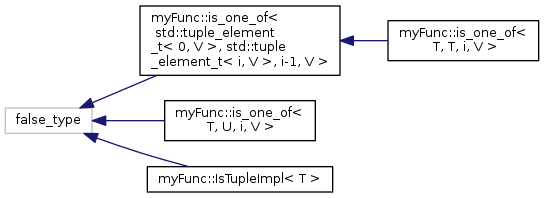
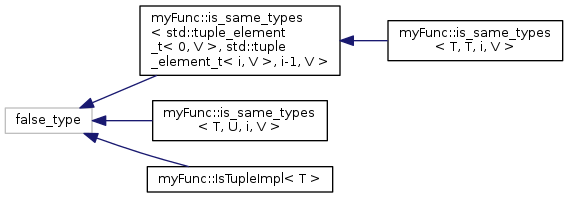
Deploy alexhamster/homework_4 to github.com/alexhamster/homework_4.git:gh-pages

Changed region(s): [[0.2188, 0.0, 1.0, 0.4545], [0.0312, 0.4545, 0.625, 1.0], [0.25, 0.4848, 0.5938, 0.7273]]

diff --git a/hierarchy.html b/hierarchy.html
@@ -93,16 +93,16 @@ This inheritance list is sorted roughly, but not completely, alphabetically:</di
 <div class="levels">[detail level <span onclick="javascript:toggleLevel(1);">1</span><span onclick="javascript:toggleLevel(2);">2</span><span onclick="javascript:toggleLevel(3);">3</span>]</div><table class="directory">
 <tr id="row_0_" class="even"><td class="entry"><span style="width:16px;display:inline-block;">&#160;</span><span class="icona"><span class="icon">C</span></span><a class="el" href="unionbyteview.html" target="_self">byteview&lt; T &gt;</a></td><td class="desc"></td></tr>
 <tr id="row_1_"><td class="entry"><span style="width:0px;display:inline-block;">&#160;</span><span id="arr_1_" class="arrow" onclick="toggleFolder('1_')">&#9660;</span><span class="icona"><span class="icon">C</span></span><b>false_type</b></td><td class="desc"></td></tr>
-<tr id="row_1_0_" class="even"><td class="entry"><span style="width:16px;display:inline-block;">&#160;</span><span id="arr_1_0_" class="arrow" onclick="toggleFolder('1_0_')">&#9660;</span><span class="icona"><span class="icon">C</span></span><a class="el" href="structmyFunc_1_1is__one__of.html" target="_self">myFunc::is_one_of&lt; std::tuple_element_t&lt; 0, V &gt;, std::tuple_element_t&lt; i, V &gt;, i-1, V &gt;</a></td><td class="desc"></td></tr>
-<tr id="row_1_0_0_"><td class="entry"><span style="width:48px;display:inline-block;">&#160;</span><span class="icona"><span class="icon">C</span></span><a class="el" href="structmyFunc_1_1is__one__of_3_01T_00_01T_00_01i_00_01V_01_4.html" target="_self">myFunc::is_one_of&lt; T, T, i, V &gt;</a></td><td class="desc"></td></tr>
-<tr id="row_1_1_" class="even"><td class="entry"><span style="width:32px;display:inline-block;">&#160;</span><span class="icona"><span class="icon">C</span></span><a class="el" href="structmyFunc_1_1is__one__of.html" target="_self">myFunc::is_one_of&lt; T, U, i, V &gt;</a></td><td class="desc"></td></tr>
+<tr id="row_1_0_" class="even"><td class="entry"><span style="width:16px;display:inline-block;">&#160;</span><span id="arr_1_0_" class="arrow" onclick="toggleFolder('1_0_')">&#9660;</span><span class="icona"><span class="icon">C</span></span><a class="el" href="structmyFunc_1_1is__same__types.html" target="_self">myFunc::is_same_types&lt; std::tuple_element_t&lt; 0, V &gt;, std::tuple_element_t&lt; i, V &gt;, i-1, V &gt;</a></td><td class="desc"></td></tr>
+<tr id="row_1_0_0_"><td class="entry"><span style="width:48px;display:inline-block;">&#160;</span><span class="icona"><span class="icon">C</span></span><a class="el" href="structmyFunc_1_1is__same__types_3_01T_00_01T_00_01i_00_01V_01_4.html" target="_self">myFunc::is_same_types&lt; T, T, i, V &gt;</a></td><td class="desc"></td></tr>
+<tr id="row_1_1_" class="even"><td class="entry"><span style="width:32px;display:inline-block;">&#160;</span><span class="icona"><span class="icon">C</span></span><a class="el" href="structmyFunc_1_1is__same__types.html" target="_self">myFunc::is_same_types&lt; T, U, i, V &gt;</a></td><td class="desc"></td></tr>
 <tr id="row_1_2_"><td class="entry"><span style="width:32px;display:inline-block;">&#160;</span><span class="icona"><span class="icon">C</span></span><a class="el" href="structmyFunc_1_1IsTupleImpl.html" target="_self">myFunc::IsTupleImpl&lt; T &gt;</a></td><td class="desc"></td></tr>
 <tr id="row_2_" class="even"><td class="entry"><span style="width:16px;display:inline-block;">&#160;</span><span class="icona"><span class="icon">C</span></span><a class="el" href="structprint.html" target="_self">print&lt; T, is_integral, is_object, is_tuple &gt;</a></td><td class="desc"></td></tr>
 <tr id="row_3_"><td class="entry"><span style="width:16px;display:inline-block;">&#160;</span><span class="icona"><span class="icon">C</span></span><a class="el" href="structprint_3_01T_00_01false_00_01true_00_01false_01_4.html" target="_self">print&lt; T, false, true, false &gt;</a></td><td class="desc"></td></tr>
 <tr id="row_4_" class="even"><td class="entry"><span style="width:16px;display:inline-block;">&#160;</span><span class="icona"><span class="icon">C</span></span><a class="el" href="structprint_3_01T_00_01false_00_01true_00_01true_01_4.html" target="_self">print&lt; T, false, true, true &gt;</a></td><td class="desc"></td></tr>
 <tr id="row_5_"><td class="entry"><span style="width:16px;display:inline-block;">&#160;</span><span class="icona"><span class="icon">C</span></span><a class="el" href="structprint_3_01T_00_01true_00_01false_00_01false_01_4.html" target="_self">print&lt; T, true, false, false &gt;</a></td><td class="desc"></td></tr>
 <tr id="row_6_" class="even"><td class="entry"><span style="width:0px;display:inline-block;">&#160;</span><span id="arr_6_" class="arrow" onclick="toggleFolder('6_')">&#9660;</span><span class="icona"><span class="icon">C</span></span><b>true_type</b></td><td class="desc"></td></tr>
-<tr id="row_6_0_"><td class="entry"><span style="width:32px;display:inline-block;">&#160;</span><span class="icona"><span class="icon">C</span></span><a class="el" href="structmyFunc_1_1is__one__of_3_01T_00_01T_00_011_00_01V_01_4.html" target="_self">myFunc::is_one_of&lt; T, T, 1, V &gt;</a></td><td class="desc"></td></tr>
+<tr id="row_6_0_"><td class="entry"><span style="width:32px;display:inline-block;">&#160;</span><span class="icona"><span class="icon">C</span></span><a class="el" href="structmyFunc_1_1is__same__types_3_01T_00_01T_00_011_00_01V_01_4.html" target="_self">myFunc::is_same_types&lt; T, T, 1, V &gt;</a></td><td class="desc"></td></tr>
 <tr id="row_6_1_" class="even"><td class="entry"><span style="width:32px;display:inline-block;">&#160;</span><span class="icona"><span class="icon">C</span></span><a class="el" href="structmyFunc_1_1IsTupleImpl_3_01std_1_1tuple_3_01U_8_8_8_01_4_01_4.html" target="_self">myFunc::IsTupleImpl&lt; std::tuple&lt; U... &gt; &gt;</a></td><td class="desc"></td></tr>
 <tr id="row_7_"><td class="entry"><span style="width:16px;display:inline-block;">&#160;</span><span class="icona"><span class="icon">C</span></span><a class="el" href="structmyFunc_1_1TuplePrinter.html" target="_self">myFunc::TuplePrinter&lt; Tuple, N &gt;</a></td><td class="desc"></td></tr>
 <tr id="row_8_" class="even"><td class="entry"><span style="width:16px;display:inline-block;">&#160;</span><span class="icona"><span class="icon">C</span></span><a class="el" href="structmyFunc_1_1TuplePrinter_3_01Tuple_00_011_01_4.html" target="_self">myFunc::TuplePrinter&lt; Tuple, 1 &gt;</a></td><td class="desc"></td></tr>

diff --git a/namespacemyFunc.html b/namespacemyFunc.html
@@ -92,11 +92,11 @@ var searchBox = new SearchBox("searchBox", "search",false,'Search');
 <table class="memberdecls">
 <tr class="heading"><td colspan="2"><h2 class="groupheader"><a name="nested-classes"></a>
 Classes</h2></td></tr>
-<tr class="memitem:"><td class="memItemLeft" align="right" valign="top">struct &#160;</td><td class="memItemRight" valign="bottom"><a class="el" href="structmyFunc_1_1is__one__of.html">is_one_of</a></td></tr>
+<tr class="memitem:"><td class="memItemLeft" align="right" valign="top">struct &#160;</td><td class="memItemRight" valign="bottom"><a class="el" href="structmyFunc_1_1is__same__types.html">is_same_types</a></td></tr>
 <tr class="separator:"><td class="memSeparator" colspan="2">&#160;</td></tr>
-<tr class="memitem:"><td class="memItemLeft" align="right" valign="top">struct &#160;</td><td class="memItemRight" valign="bottom"><a class="el" href="structmyFunc_1_1is__one__of_3_01T_00_01T_00_011_00_01V_01_4.html">is_one_of&lt; T, T, 1, V &gt;</a></td></tr>
+<tr class="memitem:"><td class="memItemLeft" align="right" valign="top">struct &#160;</td><td class="memItemRight" valign="bottom"><a class="el" href="structmyFunc_1_1is__same__types_3_01T_00_01T_00_011_00_01V_01_4.html">is_same_types&lt; T, T, 1, V &gt;</a></td></tr>
 <tr class="separator:"><td class="memSeparator" colspan="2">&#160;</td></tr>
-<tr class="memitem:"><td class="memItemLeft" align="right" valign="top">struct &#160;</td><td class="memItemRight" valign="bottom"><a class="el" href="structmyFunc_1_1is__one__of_3_01T_00_01T_00_01i_00_01V_01_4.html">is_one_of&lt; T, T, i, V &gt;</a></td></tr>
+<tr class="memitem:"><td class="memItemLeft" align="right" valign="top">struct &#160;</td><td class="memItemRight" valign="bottom"><a class="el" href="structmyFunc_1_1is__same__types_3_01T_00_01T_00_01i_00_01V_01_4.html">is_same_types&lt; T, T, i, V &gt;</a></td></tr>
 <tr class="separator:"><td class="memSeparator" colspan="2">&#160;</td></tr>
 <tr class="memitem:"><td class="memItemLeft" align="right" valign="top">struct &#160;</td><td class="memItemRight" valign="bottom"><a class="el" href="structmyFunc_1_1IsTupleImpl.html">IsTupleImpl</a></td></tr>
 <tr class="separator:"><td class="memSeparator" colspan="2">&#160;</td></tr>
@@ -124,9 +124,9 @@ Functions</h2></td></tr>
 </table><table class="memberdecls">
 <tr class="heading"><td colspan="2"><h2 class="groupheader"><a name="var-members"></a>
 Variables</h2></td></tr>
-<tr class="memitem:aa757a804546f113b7cadf75b0a1ec7e1"><td class="memTemplParams" colspan="2">template&lt;typename T , typename U , size_t i, typename V &gt; </td></tr>
-<tr class="memitem:aa757a804546f113b7cadf75b0a1ec7e1"><td class="memTemplItemLeft" align="right" valign="top">constexpr bool&#160;</td><td class="memTemplItemRight" valign="bottom"><a class="el" href="namespacemyFunc.html#aa757a804546f113b7cadf75b0a1ec7e1">is_one_of_v</a> = <a class="el" href="structmyFunc_1_1is__one__of.html">is_one_of</a>&lt;T, U, i, V&gt;::value</td></tr>
-<tr class="separator:aa757a804546f113b7cadf75b0a1ec7e1"><td class="memSeparator" colspan="2">&#160;</td></tr>
+<tr class="memitem:a71e3910534c510ea0f7c99cc68edaf38"><td class="memTemplParams" colspan="2">template&lt;typename T , typename U , size_t i, typename V &gt; </td></tr>
+<tr class="memitem:a71e3910534c510ea0f7c99cc68edaf38"><td class="memTemplItemLeft" align="right" valign="top">constexpr bool&#160;</td><td class="memTemplItemRight" valign="bottom"><a class="el" href="namespacemyFunc.html#a71e3910534c510ea0f7c99cc68edaf38">is_same_types_v</a> = <a class="el" href="structmyFunc_1_1is__same__types.html">is_same_types</a>&lt;T, U, i, V&gt;::value</td></tr>
+<tr class="separator:a71e3910534c510ea0f7c99cc68edaf38"><td class="memSeparator" colspan="2">&#160;</td></tr>
 </table>
 <h2 class="groupheader">Function Documentation</h2>
 <a class="anchor" id="a2880ec2f77273fe6723e3a9bf280f8f4"></a>
@@ -222,14 +222,14 @@ Here is the caller graph for this function:</div>
 </div>
 </div>
 <h2 class="groupheader">Variable Documentation</h2>
-<a class="anchor" id="aa757a804546f113b7cadf75b0a1ec7e1"></a>
+<a class="anchor" id="a71e3910534c510ea0f7c99cc68edaf38"></a>
 <div class="memitem">
 <div class="memproto">
 <div class="memtemplate">
 template&lt;typename T , typename U , size_t i, typename V &gt; </div>
       <table class="memname">
         <tr>
-          <td class="memname">constexpr bool myFunc::is_one_of_v = <a class="el" href="structmyFunc_1_1is__one__of.html">is_one_of</a>&lt;T, U, i, V&gt;::value</td>
+          <td class="memname">constexpr bool myFunc::is_same_types_v = <a class="el" href="structmyFunc_1_1is__same__types.html">is_same_types</a>&lt;T, U, i, V&gt;::value</td>
         </tr>
       </table>
 </div><div class="memdoc">

diff --git a/print__ip_8cpp.html b/print__ip_8cpp.html
@@ -117,11 +117,11 @@ Classes</h2></td></tr>
 <tr class="separator:"><td class="memSeparator" colspan="2">&#160;</td></tr>
 <tr class="memitem:"><td class="memItemLeft" align="right" valign="top">struct &#160;</td><td class="memItemRight" valign="bottom"><a class="el" href="structmyFunc_1_1IsTupleImpl_3_01std_1_1tuple_3_01U_8_8_8_01_4_01_4.html">myFunc::IsTupleImpl&lt; std::tuple&lt; U... &gt; &gt;</a></td></tr>
 <tr class="separator:"><td class="memSeparator" colspan="2">&#160;</td></tr>
-<tr class="memitem:"><td class="memItemLeft" align="right" valign="top">struct &#160;</td><td class="memItemRight" valign="bottom"><a class="el" href="structmyFunc_1_1is__one__of.html">myFunc::is_one_of&lt; T, U, i, V &gt;</a></td></tr>
+<tr class="memitem:"><td class="memItemLeft" align="right" valign="top">struct &#160;</td><td class="memItemRight" valign="bottom"><a class="el" href="structmyFunc_1_1is__same__types.html">myFunc::is_same_types&lt; T, U, i, V &gt;</a></td></tr>
 <tr class="separator:"><td class="memSeparator" colspan="2">&#160;</td></tr>
-<tr class="memitem:"><td class="memItemLeft" align="right" valign="top">struct &#160;</td><td class="memItemRight" valign="bottom"><a class="el" href="structmyFunc_1_1is__one__of_3_01T_00_01T_00_011_00_01V_01_4.html">myFunc::is_one_of&lt; T, T, 1, V &gt;</a></td></tr>
+<tr class="memitem:"><td class="memItemLeft" align="right" valign="top">struct &#160;</td><td class="memItemRight" valign="bottom"><a class="el" href="structmyFunc_1_1is__same__types_3_01T_00_01T_00_011_00_01V_01_4.html">myFunc::is_same_types&lt; T, T, 1, V &gt;</a></td></tr>
 <tr class="separator:"><td class="memSeparator" colspan="2">&#160;</td></tr>
-<tr class="memitem:"><td class="memItemLeft" align="right" valign="top">struct &#160;</td><td class="memItemRight" valign="bottom"><a class="el" href="structmyFunc_1_1is__one__of_3_01T_00_01T_00_01i_00_01V_01_4.html">myFunc::is_one_of&lt; T, T, i, V &gt;</a></td></tr>
+<tr class="memitem:"><td class="memItemLeft" align="right" valign="top">struct &#160;</td><td class="memItemRight" valign="bottom"><a class="el" href="structmyFunc_1_1is__same__types_3_01T_00_01T_00_01i_00_01V_01_4.html">myFunc::is_same_types&lt; T, T, i, V &gt;</a></td></tr>
 <tr class="separator:"><td class="memSeparator" colspan="2">&#160;</td></tr>
 <tr class="memitem:"><td class="memItemLeft" align="right" valign="top">struct &#160;</td><td class="memItemRight" valign="bottom"><a class="el" href="structmyFunc_1_1TuplePrinter.html">myFunc::TuplePrinter&lt; Tuple, N &gt;</a></td></tr>
 <tr class="separator:"><td class="memSeparator" colspan="2">&#160;</td></tr>
@@ -171,9 +171,9 @@ Variables</h2></td></tr>
 <tr class="memitem:ae1e905cdb2694181466fae8f8dd8f8e8"><td class="memTemplParams" colspan="2">template&lt;typename T &gt; </td></tr>
 <tr class="memitem:ae1e905cdb2694181466fae8f8dd8f8e8"><td class="memTemplItemLeft" align="right" valign="top">constexpr bool&#160;</td><td class="memTemplItemRight" valign="bottom"><a class="el" href="namespacestd.html#ae1e905cdb2694181466fae8f8dd8f8e8">std::is_compound_v</a> = is_compound&lt;T&gt;::value</td></tr>
 <tr class="separator:ae1e905cdb2694181466fae8f8dd8f8e8"><td class="memSeparator" colspan="2">&#160;</td></tr>
-<tr class="memitem:aa757a804546f113b7cadf75b0a1ec7e1"><td class="memTemplParams" colspan="2">template&lt;typename T , typename U , size_t i, typename V &gt; </td></tr>
-<tr class="memitem:aa757a804546f113b7cadf75b0a1ec7e1"><td class="memTemplItemLeft" align="right" valign="top">constexpr bool&#160;</td><td class="memTemplItemRight" valign="bottom"><a class="el" href="namespacemyFunc.html#aa757a804546f113b7cadf75b0a1ec7e1">myFunc::is_one_of_v</a> = is_one_of&lt;T, U, i, V&gt;::value</td></tr>
-<tr class="separator:aa757a804546f113b7cadf75b0a1ec7e1"><td class="memSeparator" colspan="2">&#160;</td></tr>
+<tr class="memitem:a71e3910534c510ea0f7c99cc68edaf38"><td class="memTemplParams" colspan="2">template&lt;typename T , typename U , size_t i, typename V &gt; </td></tr>
+<tr class="memitem:a71e3910534c510ea0f7c99cc68edaf38"><td class="memTemplItemLeft" align="right" valign="top">constexpr bool&#160;</td><td class="memTemplItemRight" valign="bottom"><a class="el" href="namespacemyFunc.html#a71e3910534c510ea0f7c99cc68edaf38">myFunc::is_same_types_v</a> = is_same_types&lt;T, U, i, V&gt;::value</td></tr>
+<tr class="separator:a71e3910534c510ea0f7c99cc68edaf38"><td class="memSeparator" colspan="2">&#160;</td></tr>
 </table>
 <h2 class="groupheader">Function Documentation</h2>
 <a class="anchor" id="adb9c8fb50d681b29329c3859d6a2e2db"></a>

diff --git a/classes.html b/classes.html
@@ -92,14 +92,14 @@ var searchBox = new SearchBox("searchBox", "search",false,'Search');
 <tr><td rowspan="2" valign="bottom"><a name="letter_I"></a><table border="0" cellspacing="0" cellpadding="0"><tr><td><div class="ah">&#160;&#160;I&#160;&#160;</div></td></tr></table>
 </td><td rowspan="2" valign="bottom"><a name="letter_T"></a><table border="0" cellspacing="0" cellpadding="0"><tr><td><div class="ah">&#160;&#160;T&#160;&#160;</div></td></tr></table>
 </td><td rowspan="2" valign="bottom"><a name="letter_b"></a><table border="0" cellspacing="0" cellpadding="0"><tr><td><div class="ah">&#160;&#160;b&#160;&#160;</div></td></tr></table>
-</td><td valign="top"><a class="el" href="structmyFunc_1_1is__one__of_3_01T_00_01T_00_011_00_01V_01_4.html">is_one_of&lt; T, T, 1, V &gt;</a> (<a class="el" href="namespacemyFunc.html">myFunc</a>)&#160;&#160;&#160;</td><td valign="top"><a class="el" href="structprint_3_01T_00_01false_00_01true_00_01false_01_4.html">print&lt; T, false, true, false &gt;</a>&#160;&#160;&#160;</td></tr>
-<tr><td valign="top"><a class="el" href="structmyFunc_1_1is__one__of_3_01T_00_01T_00_01i_00_01V_01_4.html">is_one_of&lt; T, T, i, V &gt;</a> (<a class="el" href="namespacemyFunc.html">myFunc</a>)&#160;&#160;&#160;</td><td valign="top"><a class="el" href="structprint_3_01T_00_01false_00_01true_00_01true_01_4.html">print&lt; T, false, true, true &gt;</a>&#160;&#160;&#160;</td></tr>
+</td><td valign="top"><a class="el" href="structmyFunc_1_1is__same__types_3_01T_00_01T_00_011_00_01V_01_4.html">is_same_types&lt; T, T, 1, V &gt;</a> (<a class="el" href="namespacemyFunc.html">myFunc</a>)&#160;&#160;&#160;</td><td valign="top"><a class="el" href="structprint_3_01T_00_01false_00_01true_00_01false_01_4.html">print&lt; T, false, true, false &gt;</a>&#160;&#160;&#160;</td></tr>
+<tr><td valign="top"><a class="el" href="structmyFunc_1_1is__same__types_3_01T_00_01T_00_01i_00_01V_01_4.html">is_same_types&lt; T, T, i, V &gt;</a> (<a class="el" href="namespacemyFunc.html">myFunc</a>)&#160;&#160;&#160;</td><td valign="top"><a class="el" href="structprint_3_01T_00_01false_00_01true_00_01true_01_4.html">print&lt; T, false, true, true &gt;</a>&#160;&#160;&#160;</td></tr>
 <tr><td valign="top"><a class="el" href="structmyFunc_1_1IsTupleImpl.html">IsTupleImpl</a> (<a class="el" href="namespacemyFunc.html">myFunc</a>)&#160;&#160;&#160;</td><td valign="top"><a class="el" href="structmyFunc_1_1TuplePrinter.html">TuplePrinter</a> (<a class="el" href="namespacemyFunc.html">myFunc</a>)&#160;&#160;&#160;</td><td valign="top"><a class="el" href="unionbyteview.html">byteview</a>&#160;&#160;&#160;</td><td rowspan="2" valign="bottom"><a name="letter_p"></a><table border="0" cellspacing="0" cellpadding="0"><tr><td><div class="ah">&#160;&#160;p&#160;&#160;</div></td></tr></table>
 </td><td valign="top"><a class="el" href="structprint_3_01T_00_01true_00_01false_00_01false_01_4.html">print&lt; T, true, false, false &gt;</a>&#160;&#160;&#160;</td></tr>
 <tr><td valign="top"><a class="el" href="structmyFunc_1_1IsTupleImpl_3_01std_1_1tuple_3_01U_8_8_8_01_4_01_4.html">IsTupleImpl&lt; std::tuple&lt; U... &gt; &gt;</a> (<a class="el" href="namespacemyFunc.html">myFunc</a>)&#160;&#160;&#160;</td><td valign="top"><a class="el" href="structmyFunc_1_1TuplePrinter_3_01Tuple_00_011_01_4.html">TuplePrinter&lt; Tuple, 1 &gt;</a> (<a class="el" href="namespacemyFunc.html">myFunc</a>)&#160;&#160;&#160;</td><td rowspan="2" valign="bottom"><a name="letter_i"></a><table border="0" cellspacing="0" cellpadding="0"><tr><td><div class="ah">&#160;&#160;i&#160;&#160;</div></td></tr></table>
 </td><td></td></tr>
 <tr><td></td><td></td><td valign="top"><a class="el" href="structprint.html">print</a>&#160;&#160;&#160;</td><td></td></tr>
-<tr><td></td><td></td><td valign="top"><a class="el" href="structmyFunc_1_1is__one__of.html">is_one_of</a> (<a class="el" href="namespacemyFunc.html">myFunc</a>)&#160;&#160;&#160;</td><td></td><td></td></tr>
+<tr><td></td><td></td><td valign="top"><a class="el" href="structmyFunc_1_1is__same__types.html">is_same_types</a> (<a class="el" href="namespacemyFunc.html">myFunc</a>)&#160;&#160;&#160;</td><td></td><td></td></tr>
 <tr><td></td><td></td><td></td><td></td><td></td></tr>
 </table>
 <div class="qindex"><a class="qindex" href="#letter_B">B</a>&#160;|&#160;<a class="qindex" href="#letter_I">I</a>&#160;|&#160;<a class="qindex" href="#letter_P">P</a>&#160;|&#160;<a class="qindex" href="#letter_T">T</a></div>

diff --git a/inherits.html b/inherits.html
@@ -95,18 +95,18 @@ var searchBox = new SearchBox("searchBox", "search",false,'Search');
 <area shape="rect" id="node1" href="unionbyteview.html" title="byteview\&lt; T \&gt;" alt="" coords="5,5,120,32"/>
 </map>
 </td></tr>
-<tr><td><img src="inherit_graph_1.png" border="0" alt="" usemap="#myFunc_1_1is__one__of_3_01std_1_1tuple__element__t_3_010_00_01V_01_4_00_01std_1_1tuple__element__t_3_01i_00_01V_01_4_00_01i-1_00_01V_01_4"/>
-<map name="myFunc_1_1is__one__of_3_01std_1_1tuple__element__t_3_010_00_01V_01_4_00_01std_1_1tuple__element__t_3_01i_00_01V_01_4_00_01i-1_00_01V_01_4" id="myFunc_1_1is__one__of_3_01std_1_1tuple__element__t_3_010_00_01V_01_4_00_01std_1_1tuple__element__t_3_01i_00_01V_01_4_00_01i-1_00_01V_01_4">
-<area shape="rect" id="node2" href="structmyFunc_1_1is__one__of.html" title="myFunc::is_one_of\&lt;\l std::tuple_element\l_t\&lt; 0, V \&gt;, std::tuple\l_element_t\&lt; i, V \&gt;, i&#45;1, V \&gt;" alt="" coords="140,5,340,76"/>
-<area shape="rect" id="node4" href="structmyFunc_1_1is__one__of.html" title="myFunc::is_one_of\&lt;\l T, U, i, V \&gt;" alt="" coords="165,100,315,141"/>
+<tr><td><img src="inherit_graph_1.png" border="0" alt="" usemap="#myFunc_1_1is__same__types_3_01std_1_1tuple__element__t_3_010_00_01V_01_4_00_01std_1_1tuple__element__t_3_01i_00_01V_01_4_00_01i-1_00_01V_01_4"/>
+<map name="myFunc_1_1is__same__types_3_01std_1_1tuple__element__t_3_010_00_01V_01_4_00_01std_1_1tuple__element__t_3_01i_00_01V_01_4_00_01i-1_00_01V_01_4" id="myFunc_1_1is__same__types_3_01std_1_1tuple__element__t_3_010_00_01V_01_4_00_01std_1_1tuple__element__t_3_01i_00_01V_01_4_00_01i-1_00_01V_01_4">
+<area shape="rect" id="node2" href="structmyFunc_1_1is__same__types.html" title="myFunc::is_same_types\l\&lt; std::tuple_element\l_t\&lt; 0, V \&gt;, std::tuple\l_element_t\&lt; i, V \&gt;, i&#45;1, V \&gt;" alt="" coords="140,5,340,76"/>
+<area shape="rect" id="node4" href="structmyFunc_1_1is__same__types.html" title="myFunc::is_same_types\l\&lt; T, U, i, V \&gt;" alt="" coords="153,100,327,141"/>
 <area shape="rect" id="node5" href="structmyFunc_1_1IsTupleImpl.html" title="myFunc::IsTupleImpl\&lt; T \&gt;" alt="" coords="147,166,333,193"/>
-<area shape="rect" id="node3" href="structmyFunc_1_1is__one__of_3_01T_00_01T_00_01i_00_01V_01_4.html" title="myFunc::is_one_of\&lt;\l T, T, i, V \&gt;" alt="" coords="388,20,539,61"/>
+<area shape="rect" id="node3" href="structmyFunc_1_1is__same__types_3_01T_00_01T_00_01i_00_01V_01_4.html" title="myFunc::is_same_types\l\&lt; T, T, i, V \&gt;" alt="" coords="388,20,563,61"/>
 </map>
 </td></tr>
-<tr><td><img src="inherit_graph_2.png" border="0" alt="" usemap="#myFunc_1_1is__one__of_3_01T_00_01T_00_011_00_01V_01_4"/>
-<map name="myFunc_1_1is__one__of_3_01T_00_01T_00_011_00_01V_01_4" id="myFunc_1_1is__one__of_3_01T_00_01T_00_011_00_01V_01_4">
-<area shape="rect" id="node2" href="structmyFunc_1_1is__one__of_3_01T_00_01T_00_011_00_01V_01_4.html" title="myFunc::is_one_of\&lt;\l T, T, 1, V \&gt;" alt="" coords="143,5,293,47"/>
-<area shape="rect" id="node3" href="structmyFunc_1_1IsTupleImpl_3_01std_1_1tuple_3_01U_8_8_8_01_4_01_4.html" title="myFunc::IsTupleImpl\l\&lt; std::tuple\&lt; U... \&gt; \&gt;" alt="" coords="136,71,300,112"/>
+<tr><td><img src="inherit_graph_2.png" border="0" alt="" usemap="#myFunc_1_1is__same__types_3_01T_00_01T_00_011_00_01V_01_4"/>
+<map name="myFunc_1_1is__same__types_3_01T_00_01T_00_011_00_01V_01_4" id="myFunc_1_1is__same__types_3_01T_00_01T_00_011_00_01V_01_4">
+<area shape="rect" id="node2" href="structmyFunc_1_1is__same__types_3_01T_00_01T_00_011_00_01V_01_4.html" title="myFunc::is_same_types\l\&lt; T, T, 1, V \&gt;" alt="" coords="136,5,311,47"/>
+<area shape="rect" id="node3" href="structmyFunc_1_1IsTupleImpl_3_01std_1_1tuple_3_01U_8_8_8_01_4_01_4.html" title="myFunc::IsTupleImpl\l\&lt; std::tuple\&lt; U... \&gt; \&gt;" alt="" coords="141,71,305,112"/>
 </map>
 </td></tr>
 <tr><td><img src="inherit_graph_3.png" border="0" alt="" usemap="#myFunc_1_1TuplePrinter_3_01Tuple_00_011_01_4"/>

diff --git a/structmyFunc_1_1is__same__types_3_01T_00_01T_00_01i_00_01V_01_4.html b/structmyFunc_1_1is__same__types_3_01T_00_01T_00_01i_00_01V_01_4.html
@@ -4,7 +4,7 @@
 <meta http-equiv="Content-Type" content="text/xhtml;charset=UTF-8"/>
 <meta http-equiv="X-UA-Compatible" content="IE=9"/>
 <meta name="generator" content="Doxygen 1.8.11"/>
-<title>print_ip: myFunc::is_one_of&lt; T, U, i, V &gt; Struct Template Reference</title>
+<title>print_ip: myFunc::is_same_types&lt; T, T, i, V &gt; Struct Template Reference</title>
 <link href="tabs.css" rel="stylesheet" type="text/css"/>
 <script type="text/javascript" src="jquery.js"></script>
 <script type="text/javascript" src="dynsections.js"></script>
@@ -83,26 +83,28 @@ var searchBox = new SearchBox("searchBox", "search",false,'Search');
 
 <div id="nav-path" class="navpath">
   <ul>
-<li class="navelem"><a class="el" href="namespacemyFunc.html">myFunc</a></li><li class="navelem"><a class="el" href="structmyFunc_1_1is__one__of.html">is_one_of</a></li>  </ul>
+<li class="navelem"><a class="el" href="namespacemyFunc.html">myFunc</a></li><li class="navelem"><a class="el" href="structmyFunc_1_1is__same__types_3_01T_00_01T_00_01i_00_01V_01_4.html">is_same_types&lt; T, T, i, V &gt;</a></li>  </ul>
 </div>
 </div><!-- top -->
 <div class="header">
   <div class="headertitle">
-<div class="title">myFunc::is_one_of&lt; T, U, i, V &gt; Struct Template Reference</div>  </div>
+<div class="title">myFunc::is_same_types&lt; T, T, i, V &gt; Struct Template Reference</div>  </div>
 </div><!--header-->
 <div class="contents">
 <div class="dynheader">
-Inheritance diagram for myFunc::is_one_of&lt; T, U, i, V &gt;:</div>
+Inheritance diagram for myFunc::is_same_types&lt; T, T, i, V &gt;:</div>
 <div class="dyncontent">
-<div class="center"><img src="structmyFunc_1_1is__one__of__inherit__graph.png" border="0" usemap="#myFunc_1_1is__one__of_3_01T_00_01U_00_01i_00_01V_01_4_inherit__map" alt="Inheritance graph"/></div>
-<map name="myFunc_1_1is__one__of_3_01T_00_01U_00_01i_00_01V_01_4_inherit__map" id="myFunc_1_1is__one__of_3_01T_00_01U_00_01i_00_01V_01_4_inherit__map">
+<div class="center"><img src="structmyFunc_1_1is__same__types_3_01T_00_01T_00_01i_00_01V_01_4__inherit__graph.png" border="0" usemap="#myFunc_1_1is__same__types_3_01T_00_01T_00_01i_00_01V_01_4_inherit__map" alt="Inheritance graph"/></div>
+<map name="myFunc_1_1is__same__types_3_01T_00_01T_00_01i_00_01V_01_4_inherit__map" id="myFunc_1_1is__same__types_3_01T_00_01T_00_01i_00_01V_01_4_inherit__map">
+<area shape="rect" id="node2" href="structmyFunc_1_1is__same__types.html" title="{myFunc::is_same_types\l\&lt; std::tuple_element\l_t\&lt; 0, V \&gt;, std::tuple\l_element_t\&lt; i, V \&gt;, i&#45;1, V \&gt;\n||}" alt="" coords="5,131,205,252"/>
 </map>
 </div>
 <div class="dynheader">
-Collaboration diagram for myFunc::is_one_of&lt; T, U, i, V &gt;:</div>
+Collaboration diagram for myFunc::is_same_types&lt; T, T, i, V &gt;:</div>
 <div class="dyncontent">
-<div class="center"><img src="structmyFunc_1_1is__one__of__coll__graph.png" border="0" usemap="#myFunc_1_1is__one__of_3_01T_00_01U_00_01i_00_01V_01_4_coll__map" alt="Collaboration graph"/></div>
-<map name="myFunc_1_1is__one__of_3_01T_00_01U_00_01i_00_01V_01_4_coll__map" id="myFunc_1_1is__one__of_3_01T_00_01U_00_01i_00_01V_01_4_coll__map">
+<div class="center"><img src="structmyFunc_1_1is__same__types_3_01T_00_01T_00_01i_00_01V_01_4__coll__graph.png" border="0" usemap="#myFunc_1_1is__same__types_3_01T_00_01T_00_01i_00_01V_01_4_coll__map" alt="Collaboration graph"/></div>
+<map name="myFunc_1_1is__same__types_3_01T_00_01T_00_01i_00_01V_01_4_coll__map" id="myFunc_1_1is__same__types_3_01T_00_01T_00_01i_00_01V_01_4_coll__map">
+<area shape="rect" id="node2" href="structmyFunc_1_1is__same__types.html" title="{myFunc::is_same_types\l\&lt; std::tuple_element\l_t\&lt; 0, V \&gt;, std::tuple\l_element_t\&lt; i, V \&gt;, i&#45;1, V \&gt;\n||}" alt="" coords="5,131,205,252"/>
 </map>
 </div>
 <hr/>The documentation for this struct was generated from the following file:<ul>

diff --git a/structmyFunc_1_1is__same__types.html b/structmyFunc_1_1is__same__types.html
@@ -4,7 +4,7 @@
 <meta http-equiv="Content-Type" content="text/xhtml;charset=UTF-8"/>
 <meta http-equiv="X-UA-Compatible" content="IE=9"/>
 <meta name="generator" content="Doxygen 1.8.11"/>
-<title>print_ip: myFunc::is_one_of&lt; T, T, i, V &gt; Struct Template Reference</title>
+<title>print_ip: myFunc::is_same_types&lt; T, U, i, V &gt; Struct Template Reference</title>
 <link href="tabs.css" rel="stylesheet" type="text/css"/>
 <script type="text/javascript" src="jquery.js"></script>
 <script type="text/javascript" src="dynsections.js"></script>
@@ -83,28 +83,26 @@ var searchBox = new SearchBox("searchBox", "search",false,'Search');
 
 <div id="nav-path" class="navpath">
   <ul>
-<li class="navelem"><a class="el" href="namespacemyFunc.html">myFunc</a></li><li class="navelem"><a class="el" href="structmyFunc_1_1is__one__of_3_01T_00_01T_00_01i_00_01V_01_4.html">is_one_of&lt; T, T, i, V &gt;</a></li>  </ul>
+<li class="navelem"><a class="el" href="namespacemyFunc.html">myFunc</a></li><li class="navelem"><a class="el" href="structmyFunc_1_1is__same__types.html">is_same_types</a></li>  </ul>
 </div>
 </div><!-- top -->
 <div class="header">
   <div class="headertitle">
-<div class="title">myFunc::is_one_of&lt; T, T, i, V &gt; Struct Template Reference</div>  </div>
+<div class="title">myFunc::is_same_types&lt; T, U, i, V &gt; Struct Template Reference</div>  </div>
 </div><!--header-->
 <div class="contents">
 <div class="dynheader">
-Inheritance diagram for myFunc::is_one_of&lt; T, T, i, V &gt;:</div>
+Inheritance diagram for myFunc::is_same_types&lt; T, U, i, V &gt;:</div>
 <div class="dyncontent">
-<div class="center"><img src="structmyFunc_1_1is__one__of_3_01T_00_01T_00_01i_00_01V_01_4__inherit__graph.png" border="0" usemap="#myFunc_1_1is__one__of_3_01T_00_01T_00_01i_00_01V_01_4_inherit__map" alt="Inheritance graph"/></div>
-<map name="myFunc_1_1is__one__of_3_01T_00_01T_00_01i_00_01V_01_4_inherit__map" id="myFunc_1_1is__one__of_3_01T_00_01T_00_01i_00_01V_01_4_inherit__map">
-<area shape="rect" id="node2" href="structmyFunc_1_1is__one__of.html" title="{myFunc::is_one_of\&lt;\l std::tuple_element\l_t\&lt; 0, V \&gt;, std::tuple\l_element_t\&lt; i, V \&gt;, i&#45;1, V \&gt;\n||}" alt="" coords="5,131,205,252"/>
+<div class="center"><img src="structmyFunc_1_1is__same__types__inherit__graph.png" border="0" usemap="#myFunc_1_1is__same__types_3_01T_00_01U_00_01i_00_01V_01_4_inherit__map" alt="Inheritance graph"/></div>
+<map name="myFunc_1_1is__same__types_3_01T_00_01U_00_01i_00_01V_01_4_inherit__map" id="myFunc_1_1is__same__types_3_01T_00_01U_00_01i_00_01V_01_4_inherit__map">
 </map>
 </div>
 <div class="dynheader">
-Collaboration diagram for myFunc::is_one_of&lt; T, T, i, V &gt;:</div>
+Collaboration diagram for myFunc::is_same_types&lt; T, U, i, V &gt;:</div>
 <div class="dyncontent">
-<div class="center"><img src="structmyFunc_1_1is__one__of_3_01T_00_01T_00_01i_00_01V_01_4__coll__graph.png" border="0" usemap="#myFunc_1_1is__one__of_3_01T_00_01T_00_01i_00_01V_01_4_coll__map" alt="Collaboration graph"/></div>
-<map name="myFunc_1_1is__one__of_3_01T_00_01T_00_01i_00_01V_01_4_coll__map" id="myFunc_1_1is__one__of_3_01T_00_01T_00_01i_00_01V_01_4_coll__map">
-<area shape="rect" id="node2" href="structmyFunc_1_1is__one__of.html" title="{myFunc::is_one_of\&lt;\l std::tuple_element\l_t\&lt; 0, V \&gt;, std::tuple\l_element_t\&lt; i, V \&gt;, i&#45;1, V \&gt;\n||}" alt="" coords="5,131,205,252"/>
+<div class="center"><img src="structmyFunc_1_1is__same__types__coll__graph.png" border="0" usemap="#myFunc_1_1is__same__types_3_01T_00_01U_00_01i_00_01V_01_4_coll__map" alt="Collaboration graph"/></div>
+<map name="myFunc_1_1is__same__types_3_01T_00_01U_00_01i_00_01V_01_4_coll__map" id="myFunc_1_1is__same__types_3_01T_00_01U_00_01i_00_01V_01_4_coll__map">
 </map>
 </div>
 <hr/>The documentation for this struct was generated from the following file:<ul>

diff --git a/structmyFunc_1_1is__same__types_3_01T_00_01T_00_011_00_01V_01_4.html b/structmyFunc_1_1is__same__types_3_01T_00_01T_00_011_00_01V_01_4.html
@@ -4,7 +4,7 @@
 <meta http-equiv="Content-Type" content="text/xhtml;charset=UTF-8"/>
 <meta http-equiv="X-UA-Compatible" content="IE=9"/>
 <meta name="generator" content="Doxygen 1.8.11"/>
-<title>print_ip: myFunc::is_one_of&lt; T, T, 1, V &gt; Struct Template Reference</title>
+<title>print_ip: myFunc::is_same_types&lt; T, T, 1, V &gt; Struct Template Reference</title>
 <link href="tabs.css" rel="stylesheet" type="text/css"/>
 <script type="text/javascript" src="jquery.js"></script>
 <script type="text/javascript" src="dynsections.js"></script>
@@ -83,26 +83,26 @@ var searchBox = new SearchBox("searchBox", "search",false,'Search');
 
 <div id="nav-path" class="navpath">
   <ul>
-<li class="navelem"><a class="el" href="namespacemyFunc.html">myFunc</a></li><li class="navelem"><a class="el" href="structmyFunc_1_1is__one__of_3_01T_00_01T_00_011_00_01V_01_4.html">is_one_of&lt; T, T, 1, V &gt;</a></li>  </ul>
+<li class="navelem"><a class="el" href="namespacemyFunc.html">myFunc</a></li><li class="navelem"><a class="el" href="structmyFunc_1_1is__same__types_3_01T_00_01T_00_011_00_01V_01_4.html">is_same_types&lt; T, T, 1, V &gt;</a></li>  </ul>
 </div>
 </div><!-- top -->
 <div class="header">
   <div class="headertitle">
-<div class="title">myFunc::is_one_of&lt; T, T, 1, V &gt; Struct Template Reference</div>  </div>
+<div class="title">myFunc::is_same_types&lt; T, T, 1, V &gt; Struct Template Reference</div>  </div>
 </div><!--header-->
 <div class="contents">
 <div class="dynheader">
-Inheritance diagram for myFunc::is_one_of&lt; T, T, 1, V &gt;:</div>
+Inheritance diagram for myFunc::is_same_types&lt; T, T, 1, V &gt;:</div>
 <div class="dyncontent">
-<div class="center"><img src="structmyFunc_1_1is__one__of_3_01T_00_01T_00_011_00_01V_01_4__inherit__graph.png" border="0" usemap="#myFunc_1_1is__one__of_3_01T_00_01T_00_011_00_01V_01_4_inherit__map" alt="Inheritance graph"/></div>
-<map name="myFunc_1_1is__one__of_3_01T_00_01T_00_011_00_01V_01_4_inherit__map" id="myFunc_1_1is__one__of_3_01T_00_01T_00_011_00_01V_01_4_inherit__map">
+<div class="center"><img src="structmyFunc_1_1is__same__types_3_01T_00_01T_00_011_00_01V_01_4__inherit__graph.png" border="0" usemap="#myFunc_1_1is__same__types_3_01T_00_01T_00_011_00_01V_01_4_inherit__map" alt="Inheritance graph"/></div>
+<map name="myFunc_1_1is__same__types_3_01T_00_01T_00_011_00_01V_01_4_inherit__map" id="myFunc_1_1is__same__types_3_01T_00_01T_00_011_00_01V_01_4_inherit__map">
 </map>
 </div>
 <div class="dynheader">
-Collaboration diagram for myFunc::is_one_of&lt; T, T, 1, V &gt;:</div>
+Collaboration diagram for myFunc::is_same_types&lt; T, T, 1, V &gt;:</div>
 <div class="dyncontent">
-<div class="center"><img src="structmyFunc_1_1is__one__of_3_01T_00_01T_00_011_00_01V_01_4__coll__graph.png" border="0" usemap="#myFunc_1_1is__one__of_3_01T_00_01T_00_011_00_01V_01_4_coll__map" alt="Collaboration graph"/></div>
-<map name="myFunc_1_1is__one__of_3_01T_00_01T_00_011_00_01V_01_4_coll__map" id="myFunc_1_1is__one__of_3_01T_00_01T_00_011_00_01V_01_4_coll__map">
+<div class="center"><img src="structmyFunc_1_1is__same__types_3_01T_00_01T_00_011_00_01V_01_4__coll__graph.png" border="0" usemap="#myFunc_1_1is__same__types_3_01T_00_01T_00_011_00_01V_01_4_coll__map" alt="Collaboration graph"/></div>
+<map name="myFunc_1_1is__same__types_3_01T_00_01T_00_011_00_01V_01_4_coll__map" id="myFunc_1_1is__same__types_3_01T_00_01T_00_011_00_01V_01_4_coll__map">
 </map>
 </div>
 <hr/>The documentation for this struct was generated from the following file:<ul>

diff --git a/annotated.html b/annotated.html
@@ -90,9 +90,9 @@ var searchBox = new SearchBox("searchBox", "search",false,'Search');
 <div class="textblock">Here are the classes, structs, unions and interfaces with brief descriptions:</div><div class="directory">
 <div class="levels">[detail level <span onclick="javascript:toggleLevel(1);">1</span><span onclick="javascript:toggleLevel(2);">2</span>]</div><table class="directory">
 <tr id="row_0_" class="even"><td class="entry"><span style="width:0px;display:inline-block;">&#160;</span><span id="arr_0_" class="arrow" onclick="toggleFolder('0_')">&#9660;</span><span class="icona"><span class="icon">N</span></span><a class="el" href="namespacemyFunc.html" target="_self">myFunc</a></td><td class="desc"></td></tr>
-<tr id="row_0_0_"><td class="entry"><span style="width:32px;display:inline-block;">&#160;</span><span class="icona"><span class="icon">C</span></span><a class="el" href="structmyFunc_1_1is__one__of.html" target="_self">is_one_of</a></td><td class="desc"></td></tr>
-<tr id="row_0_1_" class="even"><td class="entry"><span style="width:32px;display:inline-block;">&#160;</span><span class="icona"><span class="icon">C</span></span><a class="el" href="structmyFunc_1_1is__one__of_3_01T_00_01T_00_011_00_01V_01_4.html" target="_self">is_one_of&lt; T, T, 1, V &gt;</a></td><td class="desc"></td></tr>
-<tr id="row_0_2_"><td class="entry"><span style="width:32px;display:inline-block;">&#160;</span><span class="icona"><span class="icon">C</span></span><a class="el" href="structmyFunc_1_1is__one__of_3_01T_00_01T_00_01i_00_01V_01_4.html" target="_self">is_one_of&lt; T, T, i, V &gt;</a></td><td class="desc"></td></tr>
+<tr id="row_0_0_"><td class="entry"><span style="width:32px;display:inline-block;">&#160;</span><span class="icona"><span class="icon">C</span></span><a class="el" href="structmyFunc_1_1is__same__types.html" target="_self">is_same_types</a></td><td class="desc"></td></tr>
+<tr id="row_0_1_" class="even"><td class="entry"><span style="width:32px;display:inline-block;">&#160;</span><span class="icona"><span class="icon">C</span></span><a class="el" href="structmyFunc_1_1is__same__types_3_01T_00_01T_00_011_00_01V_01_4.html" target="_self">is_same_types&lt; T, T, 1, V &gt;</a></td><td class="desc"></td></tr>
+<tr id="row_0_2_"><td class="entry"><span style="width:32px;display:inline-block;">&#160;</span><span class="icona"><span class="icon">C</span></span><a class="el" href="structmyFunc_1_1is__same__types_3_01T_00_01T_00_01i_00_01V_01_4.html" target="_self">is_same_types&lt; T, T, i, V &gt;</a></td><td class="desc"></td></tr>
 <tr id="row_0_3_" class="even"><td class="entry"><span style="width:32px;display:inline-block;">&#160;</span><span class="icona"><span class="icon">C</span></span><a class="el" href="structmyFunc_1_1IsTupleImpl.html" target="_self">IsTupleImpl</a></td><td class="desc"></td></tr>
 <tr id="row_0_4_"><td class="entry"><span style="width:32px;display:inline-block;">&#160;</span><span class="icona"><span class="icon">C</span></span><a class="el" href="structmyFunc_1_1IsTupleImpl_3_01std_1_1tuple_3_01U_8_8_8_01_4_01_4.html" target="_self">IsTupleImpl&lt; std::tuple&lt; U... &gt; &gt;</a></td><td class="desc"></td></tr>
 <tr id="row_0_5_" class="even"><td class="entry"><span style="width:32px;display:inline-block;">&#160;</span><span class="icona"><span class="icon">C</span></span><a class="el" href="structmyFunc_1_1TuplePrinter.html" target="_self">TuplePrinter</a></td><td class="desc"></td></tr>

diff --git a/search/all_5.js b/search/all_5.js
@@ -4,11 +4,11 @@ var searchData=
   ['install',['install',['../CMakeLists_8txt.html#ad5b09882d4ffa0b2549cdcd18161c85d',1,'CMakeLists.txt']]],
   ['is_5fcompound_5fv',['is_compound_v',['../namespacestd.html#ae1e905cdb2694181466fae8f8dd8f8e8',1,'std']]],
   ['is_5fintegral_5fv',['is_integral_v',['../namespacestd.html#a824c5eb1a7e8aafa382dc9af3329a9e8',1,'std']]],
-  ['is_5fone_5fof',['is_one_of',['../structmyFunc_1_1is__one__of.html',1,'myFunc']]],
-  ['is_5fone_5fof_3c_20std_3a_3atuple_5felement_5ft_3c_200_2c_20v_20_3e_2c_20std_3a_3atuple_5felement_5ft_3c_20i_2c_20v_20_3e_2c_20i_2d1_2c_20v_20_3e',['is_one_of&lt; std::tuple_element_t&lt; 0, V &gt;, std::tuple_element_t&lt; i, V &gt;, i-1, V &gt;',['../structmyFunc_1_1is__one__of.html',1,'myFunc']]],
-  ['is_5fone_5fof_3c_20t_2c_20t_2c_201_2c_20v_20_3e',['is_one_of&lt; T, T, 1, V &gt;',['../structmyFunc_1_1is__one__of_3_01T_00_01T_00_011_00_01V_01_4.html',1,'myFunc']]],
-  ['is_5fone_5fof_3c_20t_2c_20t_2c_20i_2c_20v_20_3e',['is_one_of&lt; T, T, i, V &gt;',['../structmyFunc_1_1is__one__of_3_01T_00_01T_00_01i_00_01V_01_4.html',1,'myFunc']]],
-  ['is_5fone_5fof_5fv',['is_one_of_v',['../namespacemyFunc.html#aa757a804546f113b7cadf75b0a1ec7e1',1,'myFunc']]],
+  ['is_5fsame_5ftypes',['is_same_types',['../structmyFunc_1_1is__same__types.html',1,'myFunc']]],
+  ['is_5fsame_5ftypes_3c_20std_3a_3atuple_5felement_5ft_3c_200_2c_20v_20_3e_2c_20std_3a_3atuple_5felement_5ft_3c_20i_2c_20v_20_3e_2c_20i_2d1_2c_20v_20_3e',['is_same_types&lt; std::tuple_element_t&lt; 0, V &gt;, std::tuple_element_t&lt; i, V &gt;, i-1, V &gt;',['../structmyFunc_1_1is__same__types.html',1,'myFunc']]],
+  ['is_5fsame_5ftypes_3c_20t_2c_20t_2c_201_2c_20v_20_3e',['is_same_types&lt; T, T, 1, V &gt;',['../structmyFunc_1_1is__same__types_3_01T_00_01T_00_011_00_01V_01_4.html',1,'myFunc']]],
+  ['is_5fsame_5ftypes_3c_20t_2c_20t_2c_20i_2c_20v_20_3e',['is_same_types&lt; T, T, i, V &gt;',['../structmyFunc_1_1is__same__types_3_01T_00_01T_00_01i_00_01V_01_4.html',1,'myFunc']]],
+  ['is_5fsame_5ftypes_5fv',['is_same_types_v',['../namespacemyFunc.html#a71e3910534c510ea0f7c99cc68edaf38',1,'myFunc']]],
   ['is_5ftuple_5fv',['is_tuple_v',['../namespacemyFunc.html#afe24a25839d94fd3368128576589722a',1,'myFunc']]],
   ['is_5fvalid_5ftuple',['is_valid_tuple',['../structprint_3_01T_00_01false_00_01true_00_01true_01_4.html#ac26cb1e1f2d4e622fc9bd7ba97555dc4',1,'print&lt; T, false, true, true &gt;']]],
   ['istupleimpl',['IsTupleImpl',['../structmyFunc_1_1IsTupleImpl.html',1,'myFunc']]],

diff --git a/search/classes_1.js b/search/classes_1.js
@@ -1,9 +1,9 @@
 var searchData=
 [
-  ['is_5fone_5fof',['is_one_of',['../structmyFunc_1_1is__one__of.html',1,'myFunc']]],
-  ['is_5fone_5fof_3c_20std_3a_3atuple_5felement_5ft_3c_200_2c_20v_20_3e_2c_20std_3a_3atuple_5felement_5ft_3c_20i_2c_20v_20_3e_2c_20i_2d1_2c_20v_20_3e',['is_one_of&lt; std::tuple_element_t&lt; 0, V &gt;, std::tuple_element_t&lt; i, V &gt;, i-1, V &gt;',['../structmyFunc_1_1is__one__of.html',1,'myFunc']]],
-  ['is_5fone_5fof_3c_20t_2c_20t_2c_201_2c_20v_20_3e',['is_one_of&lt; T, T, 1, V &gt;',['../structmyFunc_1_1is__one__of_3_01T_00_01T_00_011_00_01V_01_4.html',1,'myFunc']]],
-  ['is_5fone_5fof_3c_20t_2c_20t_2c_20i_2c_20v_20_3e',['is_one_of&lt; T, T, i, V &gt;',['../structmyFunc_1_1is__one__of_3_01T_00_01T_00_01i_00_01V_01_4.html',1,'myFunc']]],
+  ['is_5fsame_5ftypes',['is_same_types',['../structmyFunc_1_1is__same__types.html',1,'myFunc']]],
+  ['is_5fsame_5ftypes_3c_20std_3a_3atuple_5felement_5ft_3c_200_2c_20v_20_3e_2c_20std_3a_3atuple_5felement_5ft_3c_20i_2c_20v_20_3e_2c_20i_2d1_2c_20v_20_3e',['is_same_types&lt; std::tuple_element_t&lt; 0, V &gt;, std::tuple_element_t&lt; i, V &gt;, i-1, V &gt;',['../structmyFunc_1_1is__same__types.html',1,'myFunc']]],
+  ['is_5fsame_5ftypes_3c_20t_2c_20t_2c_201_2c_20v_20_3e',['is_same_types&lt; T, T, 1, V &gt;',['../structmyFunc_1_1is__same__types_3_01T_00_01T_00_011_00_01V_01_4.html',1,'myFunc']]],
+  ['is_5fsame_5ftypes_3c_20t_2c_20t_2c_20i_2c_20v_20_3e',['is_same_types&lt; T, T, i, V &gt;',['../structmyFunc_1_1is__same__types_3_01T_00_01T_00_01i_00_01V_01_4.html',1,'myFunc']]],
   ['istupleimpl',['IsTupleImpl',['../structmyFunc_1_1IsTupleImpl.html',1,'myFunc']]],
   ['istupleimpl_3c_20std_3a_3atuple_3c_20u_2e_2e_2e_20_3e_20_3e',['IsTupleImpl&lt; std::tuple&lt; U... &gt; &gt;',['../structmyFunc_1_1IsTupleImpl_3_01std_1_1tuple_3_01U_8_8_8_01_4_01_4.html',1,'myFunc']]]
 ];

diff --git a/structprint_3_01T_00_01false_00_01true_00_01true_01_4.html b/structprint_3_01T_00_01false_00_01true_00_01true_01_4.html
@@ -227,7 +227,7 @@ template&lt;typename T &gt; </div>
   </tr>
 </table>
 </div><div class="memdoc">
-<b>Initial value:</b><div class="fragment"><div class="line">= <a class="code" href="namespacemyFunc.html#aa757a804546f113b7cadf75b0a1ec7e1">myFunc::is_one_of_v</a>&lt;</div><div class="line">            <a class="code" href="structprint_3_01T_00_01false_00_01true_00_01true_01_4.html#a2dae0d9d3db0a28ae73051bef2394aaa">first_element_type</a>,</div><div class="line">            <a class="code" href="structprint_3_01T_00_01false_00_01true_00_01true_01_4.html#a6b6bfb81869a40026880ebd0d82cd25a">n_element_type</a>,</div><div class="line">            <a class="code" href="structprint_3_01T_00_01false_00_01true_00_01true_01_4.html#a1b88695798454d00772ed00dde4f10b8">current_n</a>,</div><div class="line">            T&gt;</div></div><!-- fragment -->
+<b>Initial value:</b><div class="fragment"><div class="line">= <a class="code" href="namespacemyFunc.html#a71e3910534c510ea0f7c99cc68edaf38">myFunc::is_same_types_v</a>&lt;</div><div class="line">            <a class="code" href="structprint_3_01T_00_01false_00_01true_00_01true_01_4.html#a2dae0d9d3db0a28ae73051bef2394aaa">first_element_type</a>,</div><div class="line">            <a class="code" href="structprint_3_01T_00_01false_00_01true_00_01true_01_4.html#a6b6bfb81869a40026880ebd0d82cd25a">n_element_type</a>,</div><div class="line">            <a class="code" href="structprint_3_01T_00_01false_00_01true_00_01true_01_4.html#a1b88695798454d00772ed00dde4f10b8">current_n</a>,</div><div class="line">            T&gt;</div></div><!-- fragment -->
 </div>
 </div>
 <hr/>The documentation for this struct was generated from the following file:<ul>
